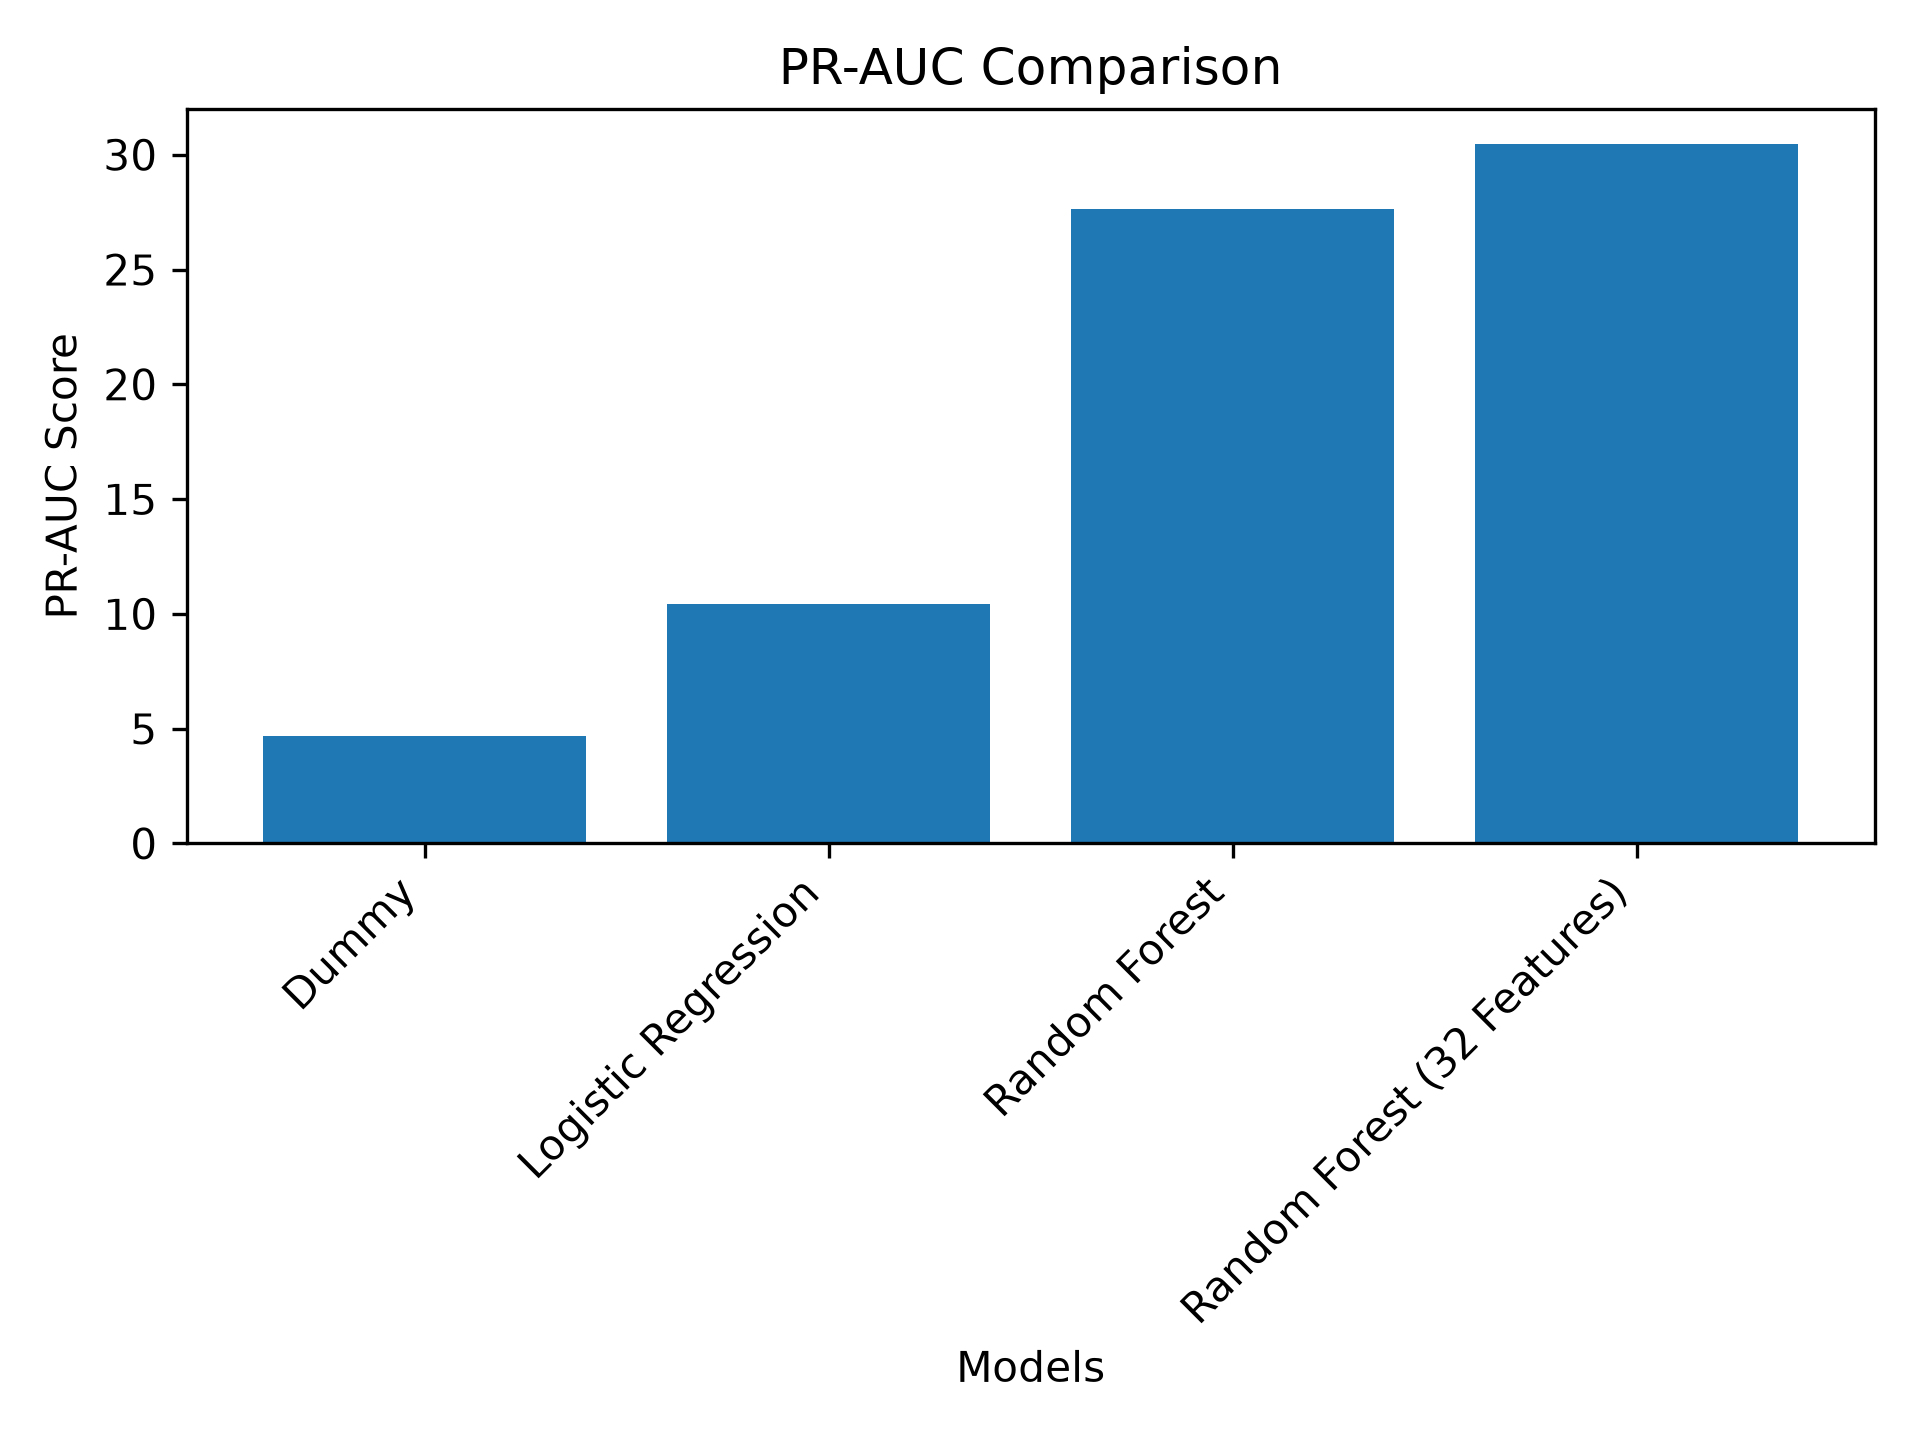
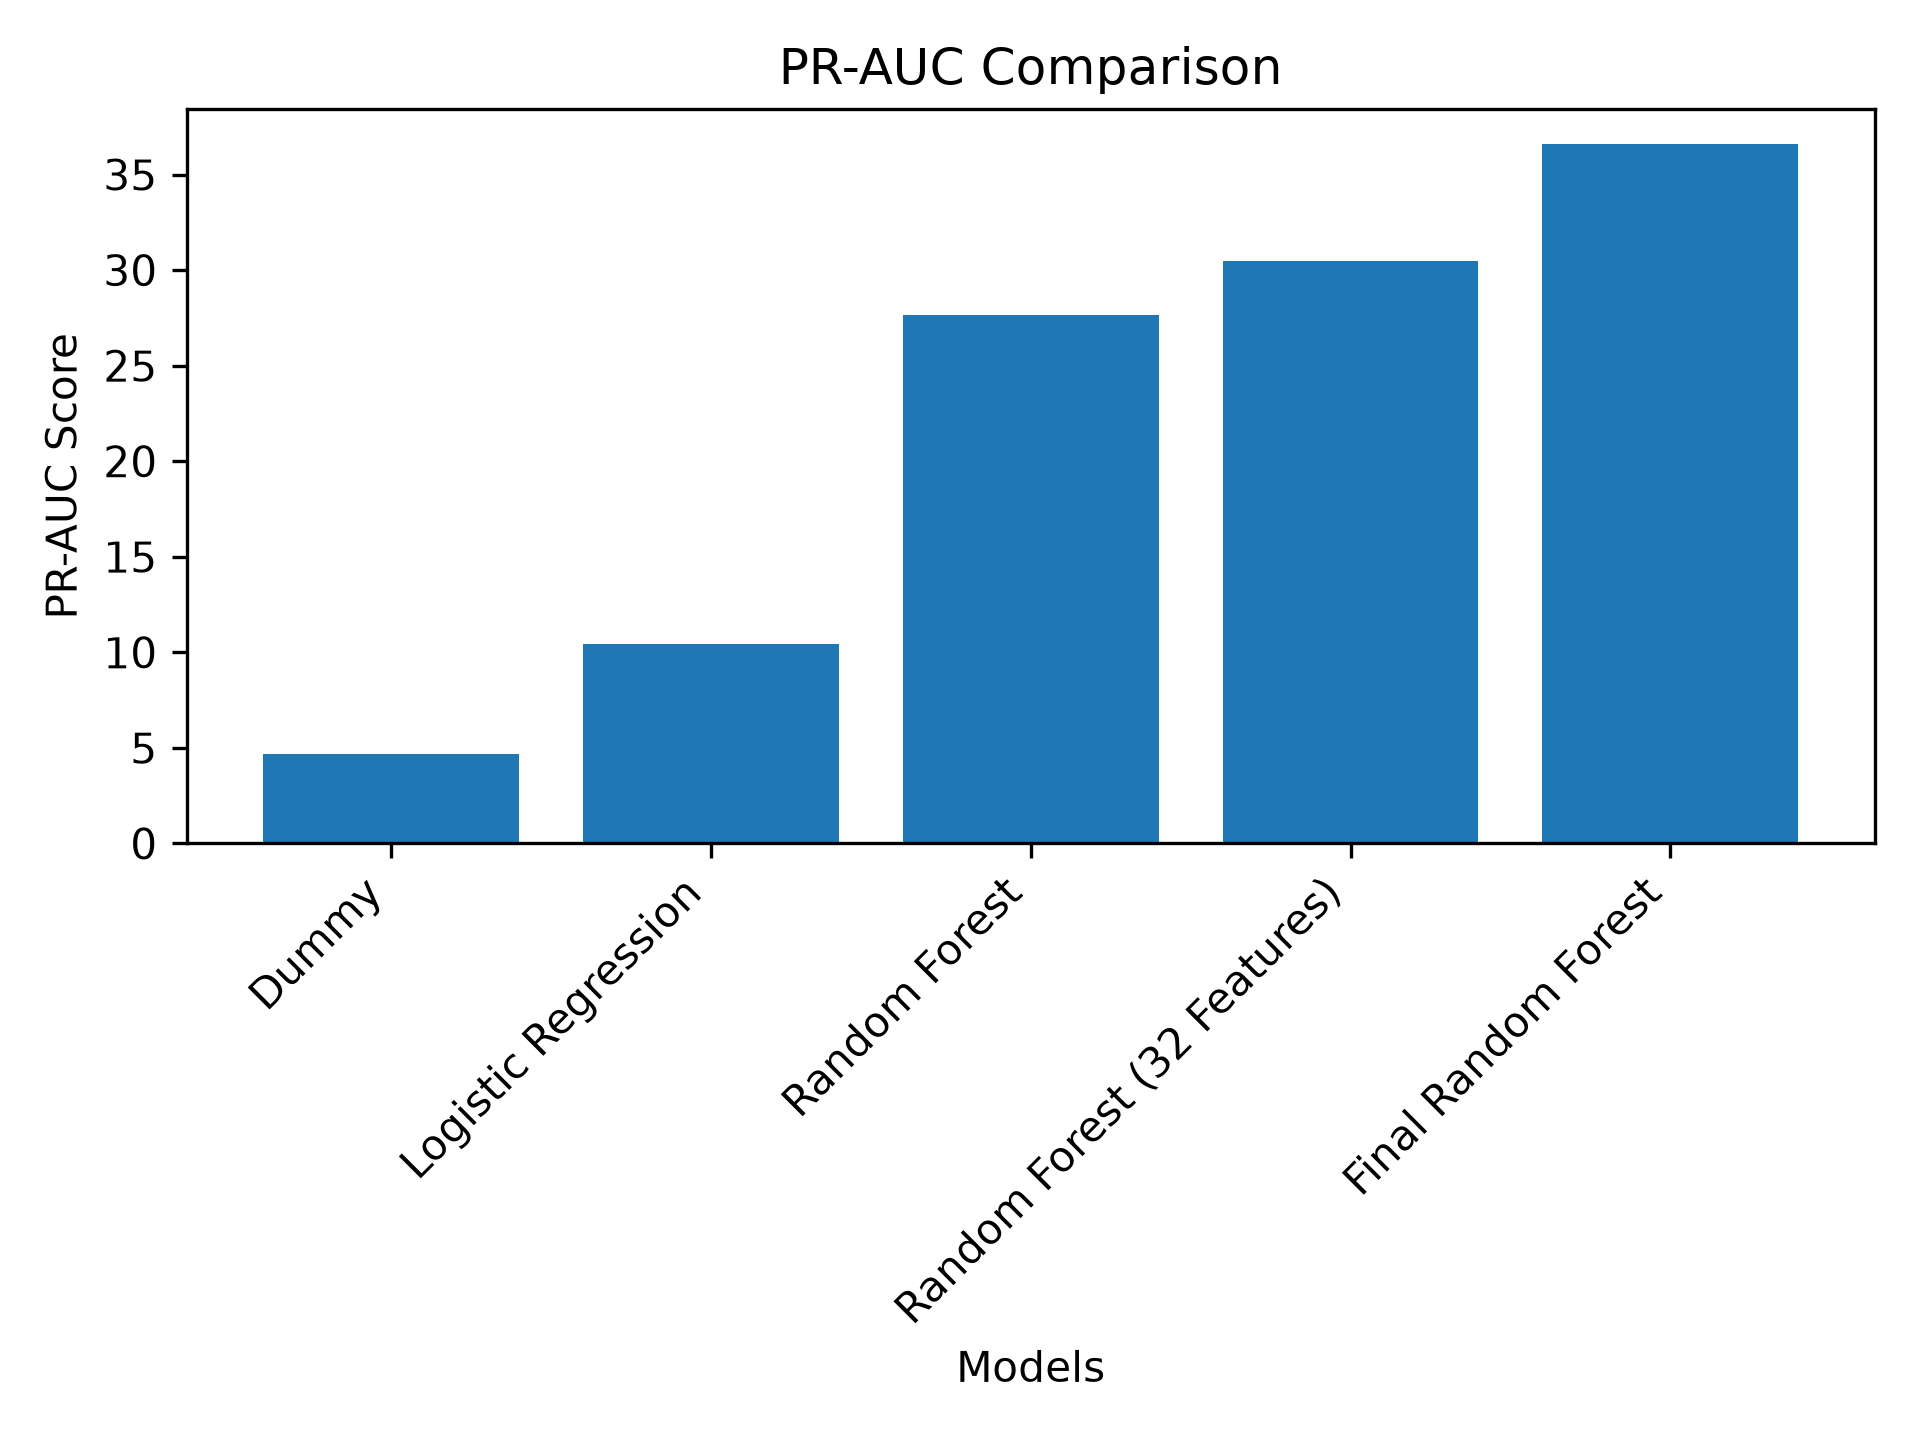
train top 20 features random forest

diff --git a/src/leansignal/main.py b/src/leansignal/main.py
@@ -4,9 +4,10 @@ from split_data import split_data, split_train_test, print_per_class_distributio
 from dummy_classifier import predict_most_frequent
 from metrics_evaluator import compute_precision, compute_recall, compute_f1_score, compute_roc_auc, compute_average_precision, compute_accuracy, compute_metrics
 from logistic_regression import train_and_predict_logistic_regression
-from random_forest import train_and_predict_random_forest, train_final_rf
+from random_forest import train_and_predict_random_forest, train_rf
 from sklearn.metrics import confusion_matrix
 import pandas as pd
+import numpy as np
 from chart import plot_bar_chart
 
 
@@ -89,15 +90,13 @@ def main():
             print_confusion_matrix("Random_Forest", y_val, predictions_selected)
 
             print_line_separator()
-            print("Starting Final Fitting Stage")
-            final_predictions, final_probability_predictions, feature_count = train_final_rf(X_dev, y_dev, X_test)
-            # final_results = {
-            #     "Final Random Forest": {
-            #         "Features": feature_count,
-            #         **compute_metrics(y_test, final_predictions, final_probability_predictions)
-            #     }
-            # }
+            twenty_predictions, twenty_probability_predictions, feature_count = train_rf(X_train, y_train, X_val, -np.inf, 20)
 
+            print_line_separator()
+            print("Starting Final Fitting Stage")
+            final_predictions, final_probability_predictions, feature_count = train_rf(X_dev, y_dev, X_test, "median", None)
+
+            print_line_separator()
 
         elif choice == '0':
             print("Exiting...")
@@ -123,6 +122,10 @@ def main():
                 "Features": rf_feature_count,
                 **compute_metrics(y_val, probability_selected, predictions_selected),
             },
+            # "Final Random Forest": {
+            #     "Features": feature_count,
+            #     **compute_metrics(y_test, final_probability_predictions, final_predictions)
+            # }
         }
         results = pd.DataFrame.from_dict(metrics_by_model, orient="index")
         results.index.name = "Model"

diff --git a/src/leansignal/random_forest.py b/src/leansignal/random_forest.py
@@ -22,13 +22,13 @@ def train_and_predict_random_forest(X_train_imputed, X_val_imputed, y_train):
     probability_selected = rf_clf_selected.predict_proba(X_val_selected)
     return predictions, probability_predictions, predictions_selected, probability_selected, X_train_selected.shape[1]
 
-def train_final_rf(X_dev, y_dev, X_test):
+def train_rf(X_dev, y_dev, X_test, threshold, max_features):
     # Preprocess
     X_dev_imputed, X_test_imputed = impute_missing_values(X_dev, X_test)
 
     # Train RF Model and Feature Selector
     final_rf = RandomForestClassifier(random_state=42)
-    selector = SelectFromModel(final_rf, threshold="median").fit(X_dev_imputed, y_dev)
+    selector = SelectFromModel(final_rf, threshold=threshold, max_features=max_features).fit(X_dev_imputed, y_dev)
 
     # Feature Selection
     X_dev_selected = selector.transform(X_dev_imputed)
@@ -37,6 +37,7 @@ def train_final_rf(X_dev, y_dev, X_test):
     print(f"Development shape after selection: {X_dev_selected.shape}")
     feature_count = X_dev_selected.shape[1]
     print(f"Selected feature count: {feature_count}")
+    print(f"Support: {selector.get_support}")
 
     # Prediction
     final_rf.fit(X_dev_selected, y_dev)
